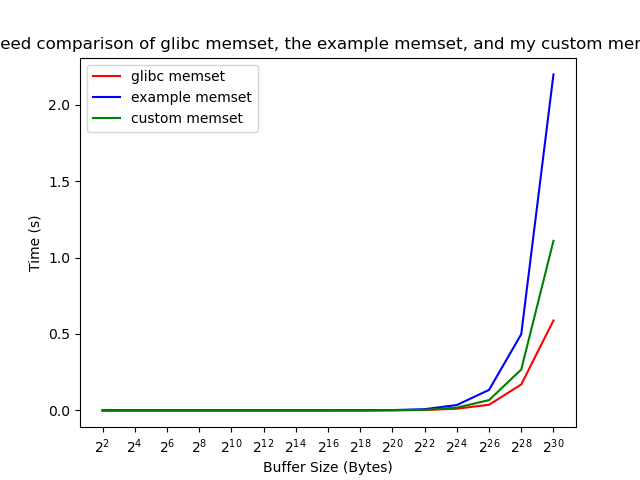
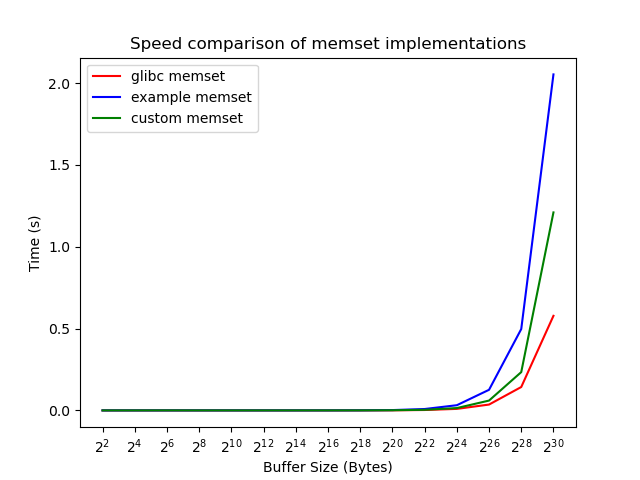
Added python file for automating speed test and creating a speed comparison graph using matplotlib

diff --git a/speed_test.py b/speed_test.py
@@ -27,7 +27,7 @@ plt.xscale('log', base=2)
 plt.xticks(powers_of_two)
 plt.xlabel('Buffer Size (Bytes)')
 plt.ylabel('Time (s)')
-plt.title("Speed comparison of glibc memset, the example memset, and my custom memset")
+plt.title("Speed comparison of memset implementations")
 plt.legend()
 plt.savefig("speed_comparison.png")
 
